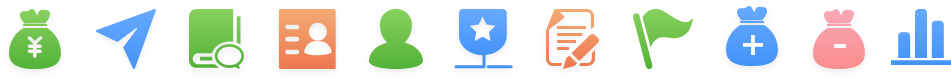
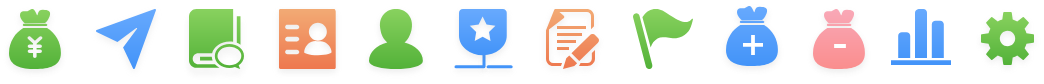
11

diff --git a/wp-content/plugins/nlyd-student/Public/css/zone/zone.css b/wp-content/plugins/nlyd-student/Public/css/zone/zone.css
@@ -161,6 +161,10 @@
 .bg_data{
     background-position: -295px 1px;
 }
+.bg_setting{
+    background-position: -324px 1px;
+}
+
 .select_box{
     position: absolute;
     width: 100%;

diff --git a/wp-content/plugins/nlyd-student/View/zone/index.php b/wp-content/plugins/nlyd-student/View/zone/index.php
@@ -40,23 +40,26 @@
                                 <?=!empty($row['legal_person']) ? $row['zone_name']:$row['user_real_name']?>
                             </span>
                         </div>
-                        <?php if($row['user_status'] == 1){ ?>
-                            <div class="c_black">
-                                <?=__('ID/编  号', 'nlyd-student')?>：<?=!empty($row['legal_person']) ? dispRepair($row['id'],4,0) : $row['user_ID']?> 
-                                <div class="img-box zone_pass"><img src="<?=student_css_url.'image/pass.png'?>" alt="<?=__('已认证', 'nlyd-student')?>"></div>
-                            </div>
-                        <?php } ?>        
+                        
+                        <div class="c_black">
+                            <?=__('ID/编 号', 'nlyd-student')?>：<?=!empty($row['legal_person']) ? dispRepair($row['id'],4,0) : $row['user_ID']?> 
+                            <?php if($row['user_status'] == 1){ ?>
+                                <div class="img-box zone_pass mr_10"><img src="<?=student_css_url.'image/pass.png'?>" alt="<?=__('已认证', 'nlyd-student')?>"></div>
+                                <a class=" c_blue" href="<?=home_url('/zone/apply')?>"><?=__('更多资料', 'nlyd-student')?></a>
+                            <?php } ?> 
+                        </div>
+                               
                         <div class="c_black">
                             <span><?=__(!empty($row['legal_person'])?'管理员':'推荐人', 'nlyd-student')?>：<?=empty($row['referee_user_ID'])? '无' : $row['referee_user_ID'];?></span>
                             <span class="pull-right">
-                                <?php if($row['user_status'] == 1){ ?>
-                                    <a class=" c_blue" href="<?=home_url('zone/apply')?>"><?=__('更多资料', 'nlyd-student')?></a>
+                                    <?php if($row['user_status'] == 1){ ?>
+                                    <a class="c_orange"><i class="iconfont">&#xe65a;</i> <?=__('返回到关联账号', 'nlyd-student')?></a>
                                     <?php }
                                     elseif ($row['user_status'] == -1){ ?>
                                     <span class=" c_orange mr_10"><?=__('资料审核中', 'nlyd-student')?></span>
                                     <?php } ?>
                                     <?php if(!empty($row['id']) && $row['user_status'] == -2):?>
-                                    <a class=" c_blue" href="<?=home_url('zone/apply/type_id/'.$row['type_id'].'/zone_type_alias/'.$row['zone_type_alias'])?>"><?=__('修改', 'nlyd-student')?></a>
+                                    <a class=" c_blue" href="<?=home_url('/zone/apply/type_id/'.$row['type_id'].'/zone_type_alias/'.$row['zone_type_alias'])?>"><?=__('修改', 'nlyd-student')?></a>
                                 <?php endif;?>
                             </span>
                         </div>
@@ -81,7 +84,7 @@
                 </div>
                 <?php if(empty($row['legal_person'])){ ?>
                 <!-- 普通用户 (控制台)-->
-                <div class="apply have_title width-padding layui-row layui-bg-white width-padding-pc">
+                <!-- <div class="apply have_title width-padding layui-row layui-bg-white width-padding-pc">
                     <div class="bold ta_c c_black apply_title"><?=__('合作申请', 'nlyd-student')?></div>
                     <?php if(!empty($list)){?>
                         <?php foreach ($list as $v){ ?>
@@ -94,19 +97,19 @@
                         </a>
                             <?php } ?>
                     <?php } ?>
-                    <a class="apply_list c_black layui-row" href="<?=home_url('zone/introduce');?>">
+                    <a class="apply_list c_black layui-row" href="<?=home_url('/zone/introduce');?>">
                         <div class="apply_list_line pull-left c_yellow ml"><i class="iconfont fs_20">&#xe650;</i></div>
                         <div class="apply_list_line center"><?=__('赞助脑力比赛', 'nlyd-student')?></div>
                         <div class="apply_list_line pull-right mr"><i class="iconfont fs_20">&#xe727;</i></div>
                         <div class="apply_list_line pull-right c_orange mr_10"></div>
                     </a>
-                    <a class="apply_list c_black layui-row" href="<?=home_url('zone/introduce');?>">
+                    <a class="apply_list c_black layui-row" href="<?=home_url('/zone/introduce');?>">
                         <div class="apply_list_line pull-left c_red ml"><i class="iconfont fs_20">&#xe650;</i></div>
                         <div class="apply_list_line center"><?=__('申请代理赛事赞助', 'nlyd-student')?></div>
                         <div class="apply_list_line pull-right mr"><i class="iconfont fs_20">&#xe727;</i></div>
                         <div class="apply_list_line pull-right c_orange mr_10"></div>
                     </a>
-                </div>
+                </div> -->
                 <?php } ?>
                 <!-- 训练中心(控制台)-->
                 <div class="apply width-padding layui-row layui-bg-white width-padding-pc">
@@ -129,6 +132,14 @@
                             <div class="zone_bg bg_data"></div>
                         </div>
                         <div class="apply_list_line center">数据统计</div>
+                        <div class="apply_list_line pull-right"><i class="iconfont fs_20">&#xe727;</i></div>
+                        <div class="apply_list_line pull-right c_orange mr_10"></div>
+                    </a>
+                    <a class="apply_list c_black layui-row" href="<?=home_url('/zone/setting');?>">
+                        <div class="apply_list_line pull-left">
+                            <div class="zone_bg bg_setting"></div>
+                        </div>
+                        <div class="apply_list_line center">其他设置</div>
                         <div class="apply_list_line pull-right"><i class="iconfont fs_20">&#xe727;</i></div>
                         <div class="apply_list_line pull-right c_orange mr_10"></div>
                     </a>

diff --git a/wp-content/plugins/nlyd-student/View/zone/setting.php b/wp-content/plugins/nlyd-student/View/zone/setting.php
@@ -1,0 +1,109 @@
+
+<div class="layui-fluid">
+    <div class="layui-row">
+        <?php
+        require_once leo_student_public_view.'leftMenu.php';
+
+        ?>
+        <div class="nl-right-content layui-col-sm12 layui-col-xs12 layui-col-md12 detail-content-wrapper">
+            <header class="mui-bar mui-bar-nav">
+                <a class="mui-pull-left nl-goback">
+                    <div><i class="iconfont">&#xe610;</i></div>
+                </a>
+                <h1 class="mui-title"><div><?=__('账号设置', 'nlyd-student')?></div></h1>
+            </header>
+            <div class="layui-row nl-border nl-content">
+                <div class="layui-row">
+                    <form class="layui-form nl-page-form " lay-filter='layform'>
+                        <div class="form-inputs">
+                            <div class="form-input-row">
+                                <div class="form-input-label"><div><?=__('登录账号', 'nlyd-student')?></div></div>
+                                <input type="text" name="" value="" placeholder="<?=__('登录账号', 'nlyd-student')?>" lay-verify="required"  class="nl-input nl-foucs">
+                                <a class="form-input-right c_blue"><div><?=__('修改密码', 'nlyd-student')?></div></a>
+                            </div>
+                            <div class="form-input-row">
+                                <div class="form-input-label"><div><?=__('管理员', 'nlyd-student')?></div></div>
+                                <input type="text" name="" value="13982242710" class="nl-input nl-foucs" readonly>
+                                <a class="form-input-right c_blue clear"><div><?=__('解除关联', 'nlyd-student')?></div></a>
+                            </div>
+                            <div class="fs_12 ta_c mt_10">
+                                <?=__('*管理员必须是使用手机号在本平台注册并已完成实名认证的用户', 'nlyd-student')?>
+                            </div>
+                        </div>
+                        <a class="a-btn a-btn-table" lay-filter="layform" lay-submit=""><div><?=__('添加关联账号', 'nlyd-student')?></div></a>
+                    </form>
+                </div>
+            </div>
+        </div>
+    </div>
+</div>
+<script>
+    jQuery(function($) {
+        layui.use(['form'], function(){
+            var form = layui.form
+            form.render();
+            // 自定义验证规则
+            form.verify($.validationLayui.allRules);
+            // 监听提交
+            form.on('submit(layform)', function(data){//实名认证提交
+                var _this=$(this);
+                if(!_this.hasClass('disabled')){
+
+                    $.ajax({
+                        data: fd,
+                        contentType : false,
+                        processData : false,
+                        cache : false,
+                        beforeSend:function(XMLHttpRequest){
+                            _this.addClass('disabled')
+                        },
+                        success: function(res, textStatus, jqXHR){
+                            $.alerts(res.data.info)
+                            if(res.data.url){
+                                setTimeout(function() {
+                                     window.location.href=res.data.url
+                                }, 300);
+                            }
+                        },
+                        complete: function(jqXHR, textStatus){
+                            if(textStatus=='timeout'){
+                                $.alerts("<?=__('网络质量差', 'nlyd-student')?>")
+                            }
+                            _this.removeClass('disabled');
+                        }
+                    })
+                }
+                return false;
+            });
+            $('.clear').click(function(){
+                var _this=$(this);
+                var admin=_this.prev('input').val()
+                layer.open({
+                    type: 1
+                    ,maxWidth:300
+                    ,title: "<?=__('提示', 'nlyd-student')?>" //不显示标题栏
+                    ,skin:'nl-box-skin'
+                    ,id: 'certification' //防止重复弹出
+                    ,content: '<div class="box-conent-wrapper"><?=__("是否确认解除与“", "nlyd-student")?>'+admin+'<?=__("” 的管理员关系?", "nlyd-student")?>？</div>'
+                    ,btn: ["<?=__('确 认', 'nlyd-student')?>" ]
+                    ,success: function(layero, index){
+                    }
+                    ,yes: function(index, layero){
+                        layer.closeAll();
+                    }
+                    ,btn2: function(index, layero){
+                        //按钮【按钮二】的回调
+                        layer.closeAll();
+                        submit(time,1)
+                    }
+                    ,closeBtn:2
+                    ,btnAagn: 'c' //按钮居中
+                    ,shade: 0.3 //遮罩
+                    ,isOutAnim:true//关闭动画
+                });
+            })
+
+        });
+
+    })
+</script>

diff --git a/wp-content/plugins/nlyd-student/Controller/class-student-zone.php b/wp-content/plugins/nlyd-student/Controller/class-student-zone.php
@@ -496,6 +496,13 @@ class Student_Zone extends Student_Home
         load_view_template($view);
     }
     /**
+     * 机构账号密码设置
+     */
+     public function setting(){
+        $view = student_view_path.CONTROLLER.'/setting.php';
+        load_view_template($view);
+    }
+    /**
      * 推荐管理
      */
      public function recommend(){
